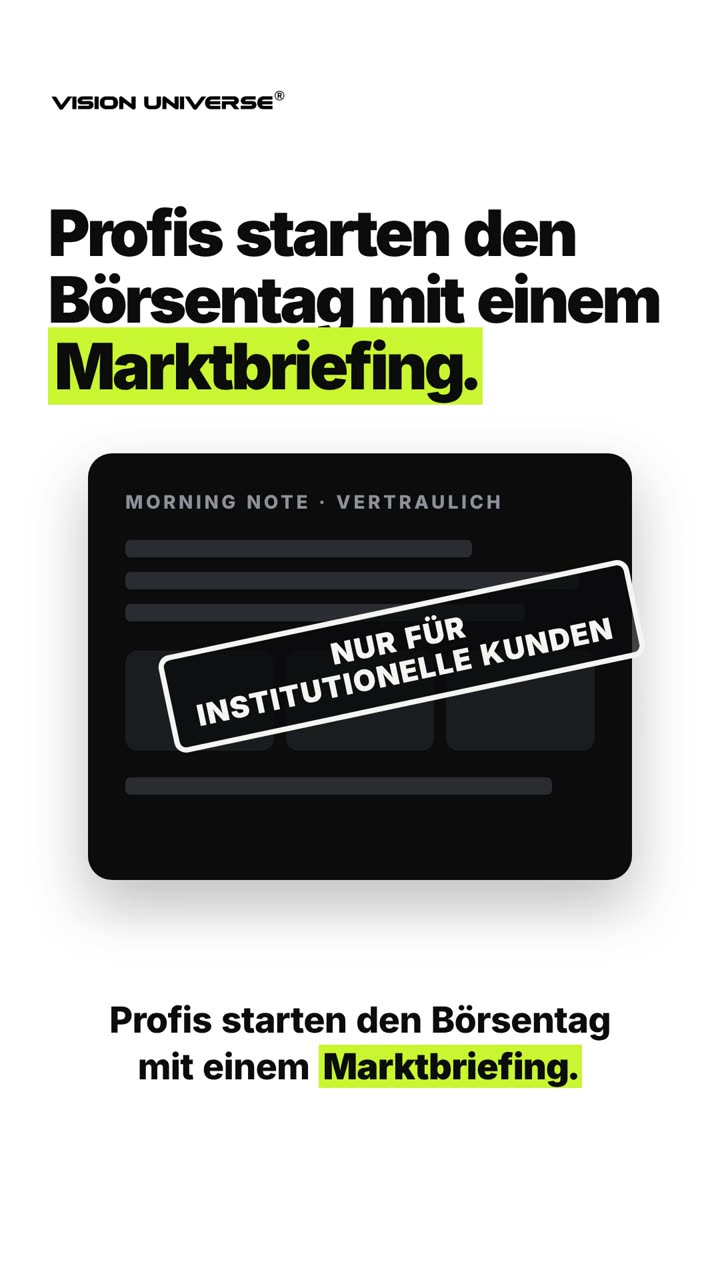
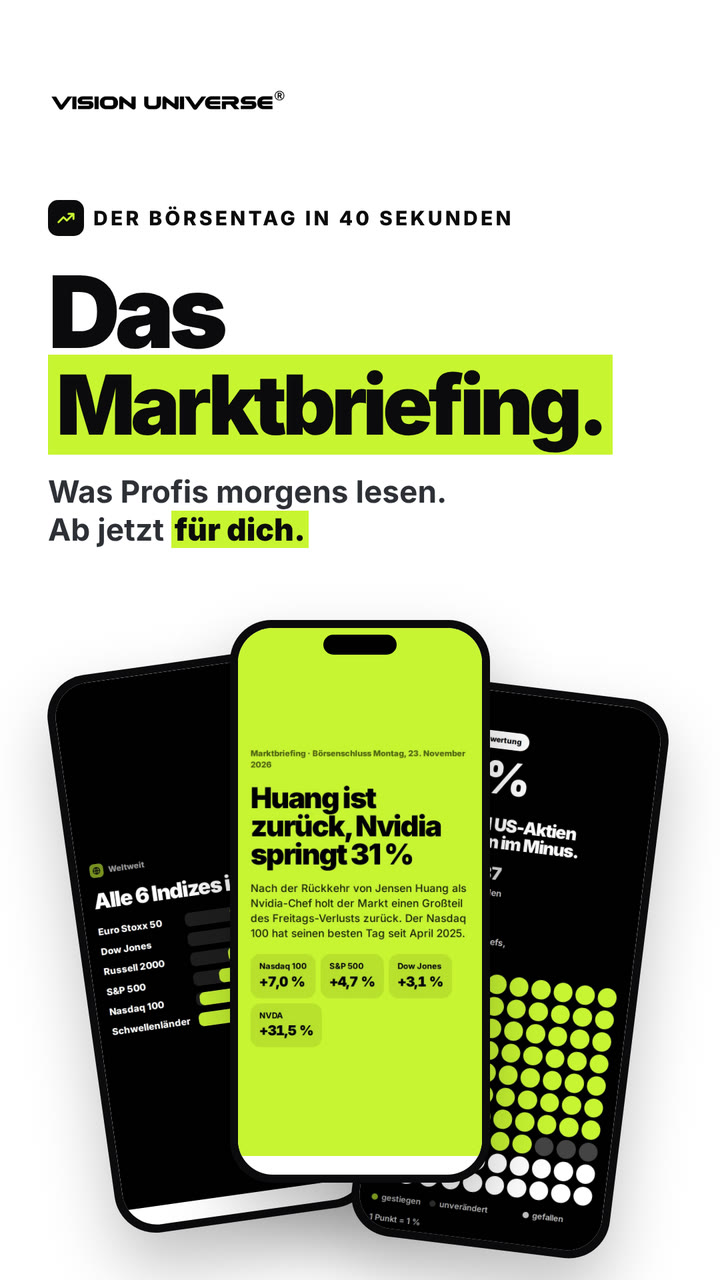
Marktbriefing: neues Titelbild für den Film, Schlagzeile und CNBC-Thema für den 24.11. (#2422)
* Marktbriefing-Film: neues Titelbild als Vorschaubild auf /marktbriefing/

Claude-Session: https://claude.ai/code/session_01DVwZC5M5UxVjuvr9N9zwfV

* Marktbriefing 24.11.: Schlagzeile und CNBC-Thema (Nvidia gibt nach dem Huang-Sprung fast 6 % ab)

Claude-Session: https://claude.ai/code/session_01DVwZC5M5UxVjuvr9N9zwfV

---------

diff --git a/studio/reels/templates/marktbriefing-film/cover.html b/studio/reels/templates/marktbriefing-film/cover.html
@@ -1,0 +1,24 @@
+<!doctype html><html lang="de"><head><meta charset="utf-8"><style>
+@font-face{font-family:Inter;src:url(assets/inter-latin.woff2) format("woff2");font-weight:100 900}
+*{box-sizing:border-box;margin:0;padding:0}
+html,body{width:1080px;height:1920px;overflow:hidden;background:#fff;font-family:Inter,sans-serif;color:#0b0b0c;-webkit-font-smoothing:antialiased}
+.abs{position:absolute}
+.hl{background:#c8f531;padding:0 .1em;box-decoration-break:clone;-webkit-box-decoration-break:clone}
+.big{font-weight:900;letter-spacing:-.055em;line-height:.98}
+.kick{display:inline-flex;align-items:center;gap:14px;font-weight:800;letter-spacing:.14em;text-transform:uppercase;font-size:30px}
+.kick i{width:54px;height:54px;border-radius:15px;background:#0b0b0c;display:flex;align-items:center;justify-content:center}
+.phone{position:absolute;width:390px;height:844px;border-radius:62px;background:#0b0b0c;padding:12px;box-shadow:0 50px 100px rgba(0,0,0,.25)}
+.phone .scr{width:100%;height:100%;border-radius:52px;overflow:hidden;background:#fff}
+.phone img{width:100%;display:block}
+.notch{position:absolute;left:50%;top:22px;width:110px;height:30px;margin-left:-55px;border-radius:20px;background:#000}
+</style></head><body>
+<div class="abs" style="left:72px;top:96px;width:360px"><img src="assets/vision-universe-logo.png" style="width:100%"></div>
+<div class="abs" style="left:72px;top:300px;right:72px">
+ <div class="kick"><i><svg width="30" height="30" viewBox="0 0 24 24" fill="none" stroke="#c8f531" stroke-width="2.4" stroke-linecap="round" stroke-linejoin="round"><path d="M3 17l6-6 4 4 8-8M15 7h6v6"/></svg></i>Der Börsentag in 40 Sekunden</div>
+ <div class="big" style="font-size:150px;margin-top:40px">Das</div><div class="big" style="font-size:124px;white-space:nowrap;margin-top:6px"><span class="hl">Marktbriefing.</span></div>
+ <div style="font-weight:700;font-size:46px;line-height:1.25;margin-top:40px;color:#2d3036">Was Profis morgens lesen.<br>Ab jetzt <span class="hl" style="font-weight:900;color:#0b0b0c">für dich.</span></div>
+</div>
+<div class="phone" style="left:120px;top:990px;transform:rotate(-8deg)"><div class="scr"><img src="assets/bildschirm-04.jpg"></div><div class="notch"></div></div>
+<div class="phone" style="left:570px;top:1030px;transform:rotate(7deg)"><div class="scr"><img src="assets/bildschirm-07.jpg"></div><div class="notch"></div></div>
+<div class="phone" style="left:345px;top:930px;z-index:2"><div class="scr"><img src="assets/bildschirm-01.jpg"></div><div class="notch"></div></div>
+</body></html>

diff --git a/studio/reels/templates/marktbriefing-film/README.md b/studio/reels/templates/marktbriefing-film/README.md
@@ -7,7 +7,7 @@ Produktfilm für das Marktbriefing, 39 s, 1080 × 1920, Stimme Helmut, Musik Dro
 | Was | Wo |
 |---|---|
 | Original (1080 × 1920) | HeyGen-Asset `fe12a838468a4118beba93a4b8a31433` (`https://resource2.heygen.ai/video/fe12a838468a4118beba93a4b8a31433/original.mp4`) |
-| Web-Fassung (720 × 1280, 2,6 MB) und Vorschaubild | `landing/marktbriefing/film/` – eingebunden oben auf `/marktbriefing/` (`www.js`, `filmBlock`) |
+| Web-Fassung (720 × 1280, 2,6 MB) und Vorschaubild (= Titelbild, `cover.html`) | `landing/marktbriefing/film/` – eingebunden oben auf `/marktbriefing/` (`www.js`, `filmBlock`) |
 | Tages-Reel 23.11.2026 (Huang, Nvidia +31 %) | HeyGen-Asset `1b107f0ab6d24e2a8d7b75841b1eee7f` |
 
 ## Bau
@@ -17,3 +17,5 @@ Wie `studio/reels/README.md`: `build_script.py script.txt tts …`, Stimme, `tig
 `assets/` braucht: `inter-latin.woff2`, `vision-universe-logo.png` (dunkel, ohne Invertieren), aus einer Ausgabe `landing/marktbriefing/<datum>/` die Bildschirme `bildschirm-01/04/07/14.jpg`, `titel.png`, `seite-02.png`, `seite-03.png`, dazu ein App-Bild mit geöffnetem Briefing (`app-story23.png`, Playwright auf `/willkommen/`, Kreis „Briefing“ antippen).
 
 Regeln aus der Entstehung: keine Aktienanzahl und kein „US“ im Sprechertext (Universum kann wachsen, ETFs sind drin); kein „täglich“; Bildschirme sind Beispiele, die Caption sagt das.
+
+Titelbild (Instagram-Cover und Vorschaubild der Website): `cover.html` mit `node cover.mjs` (1080 × 1920; wichtiges im mittleren 3:4-Ausschnitt). Owner 25.11.2026: das erste Videobild (Stempel) taugt nicht als Titelbild.
